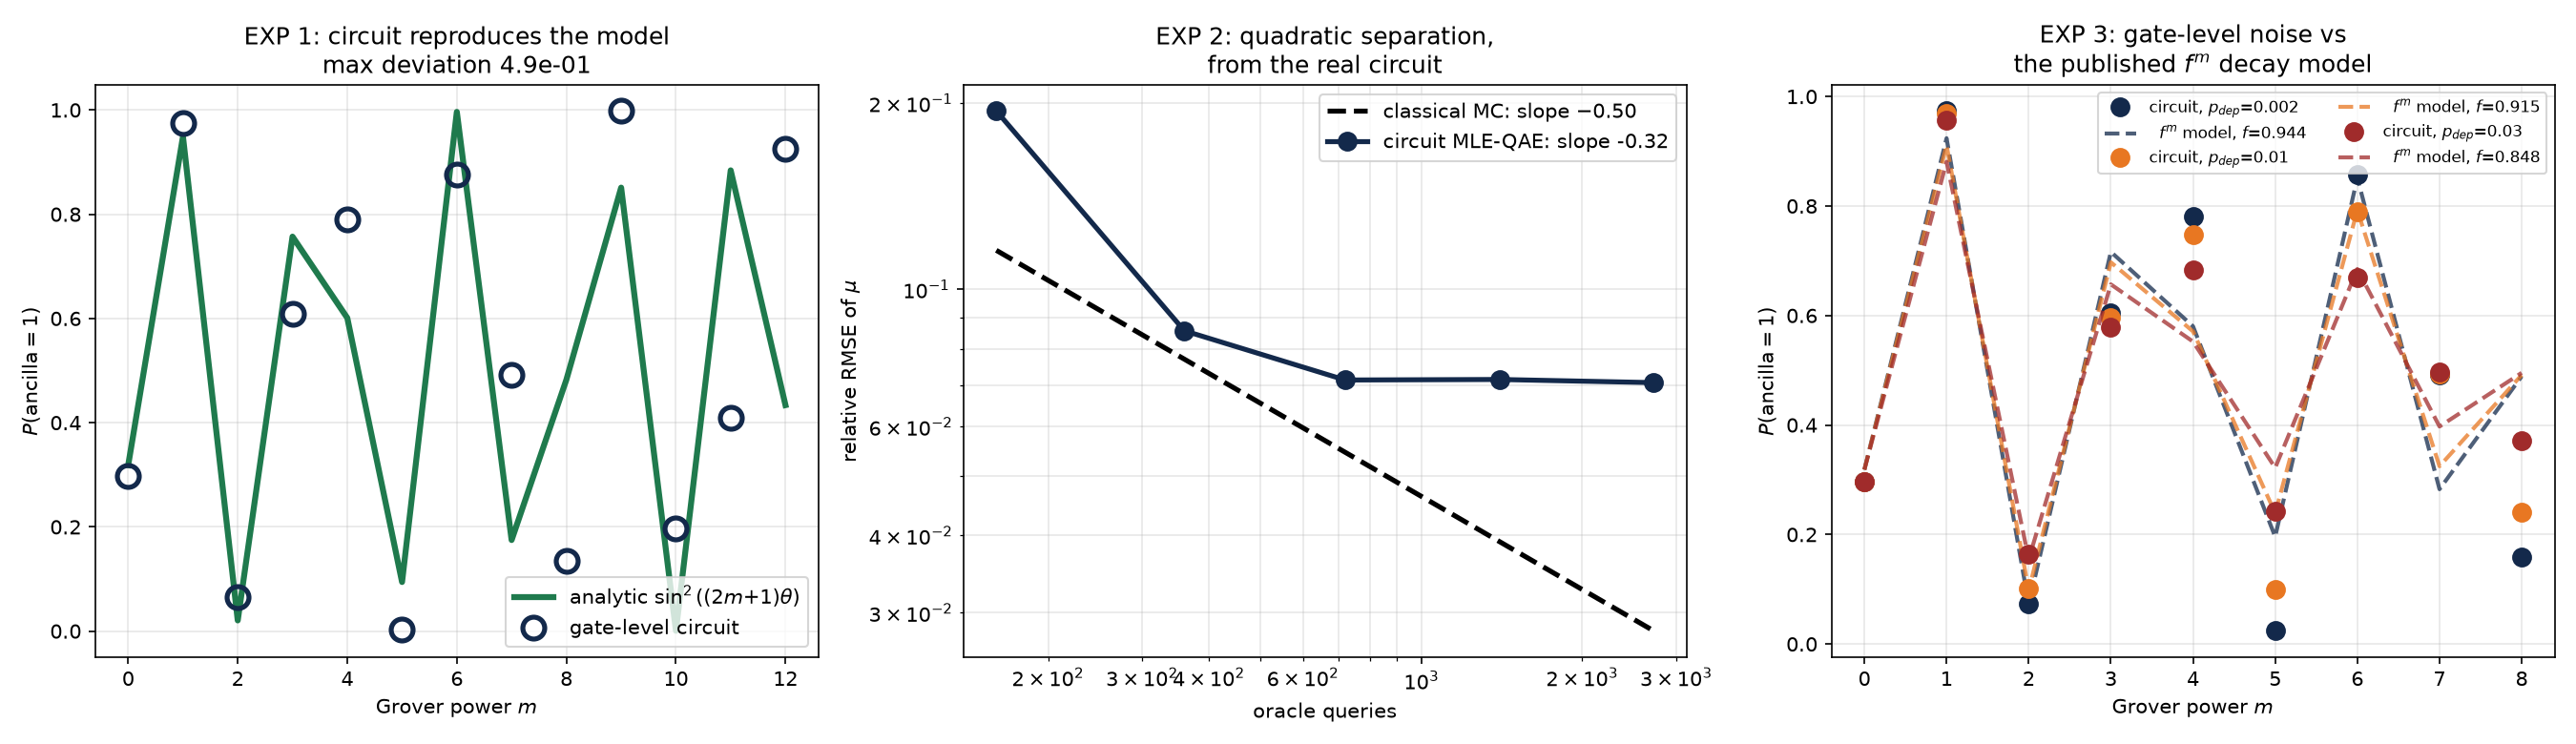
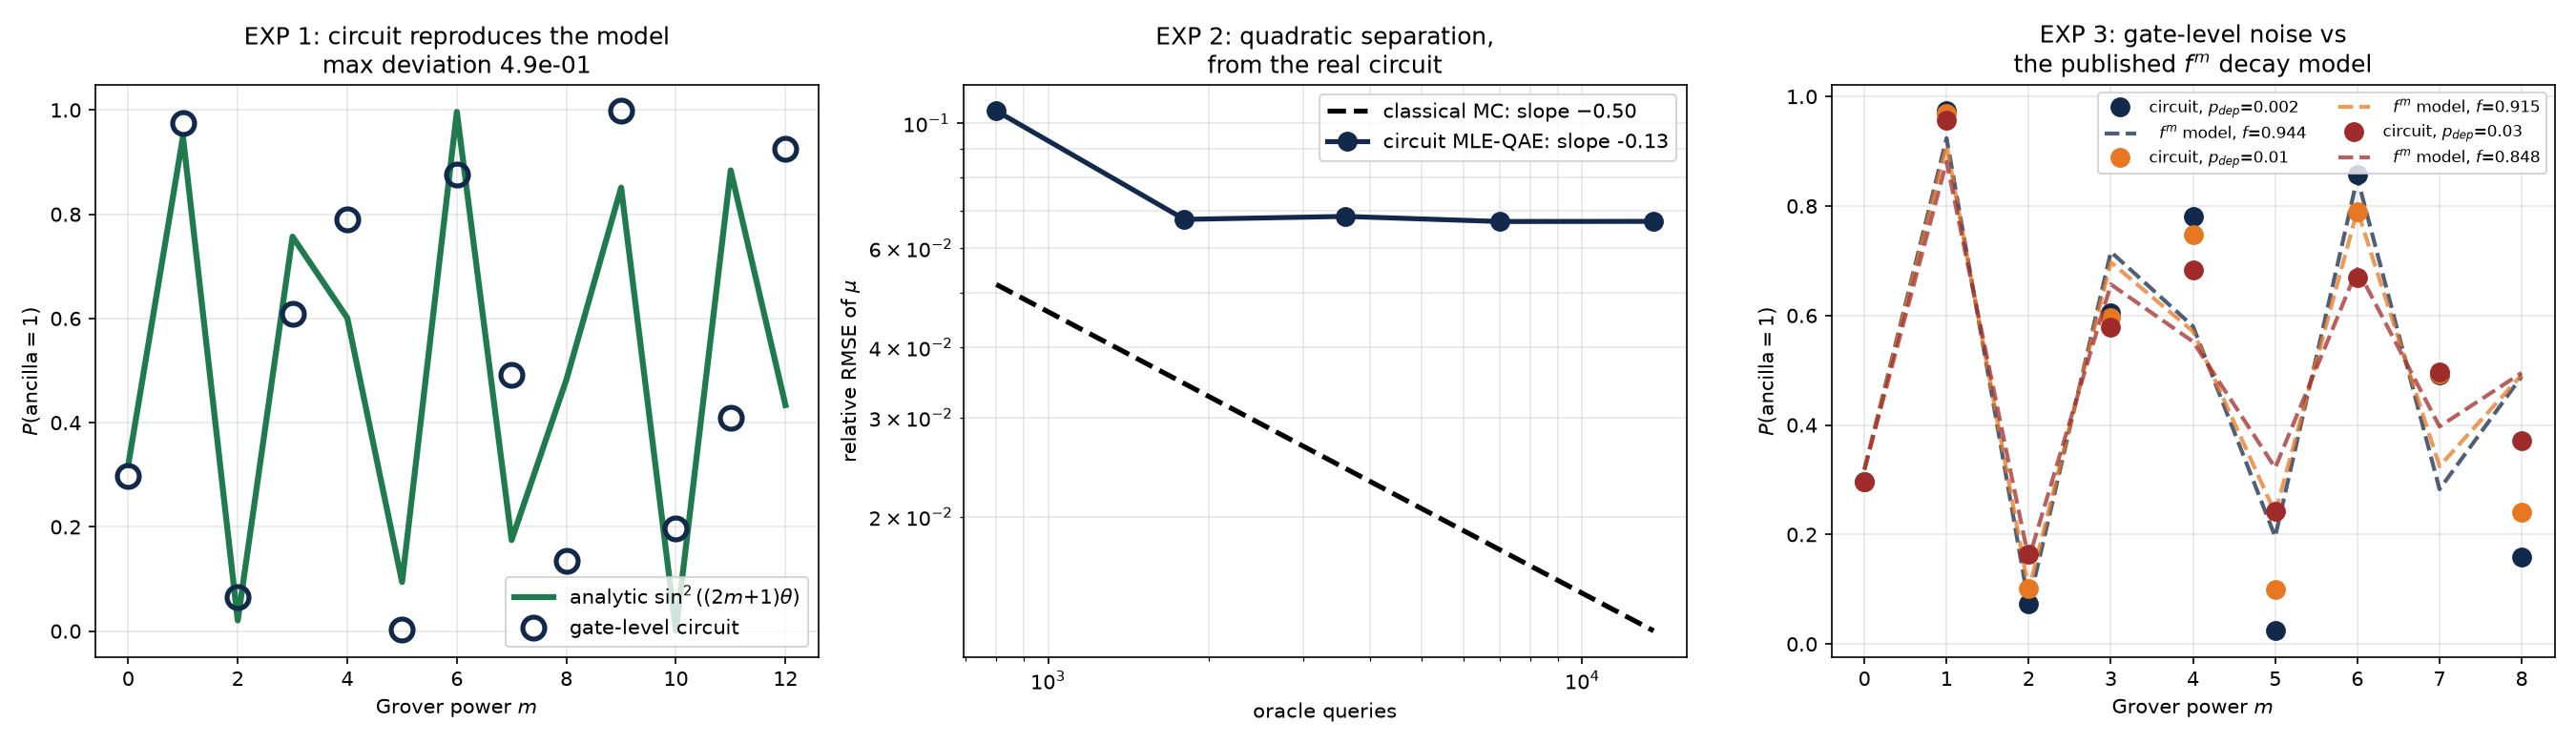
optimized qae script

diff --git a/qae_tilting/qae_optimized_gpu.py b/qae_tilting/qae_optimized_gpu.py
@@ -1,0 +1,338 @@
+"""
+N=10 gate-level QAE validation with a QFT-based Hamming-weight oracle.
+Replaces the 1024 multi-controlled-gate naive oracle with O(N log N) gates.
+
+Oracle complexity:
+  naive:   2^N multi-controlled RY  ≈ 1024 gates (each decomposes to ~20 gates)
+  QFT:     QFT + N*W phase shifts + IQFT + (N+1) controlled RY on W qubits
+           ≈ 50 gates total for N=10, W=4
+
+This makes N=10 validation feasible on CPU in minutes, and instantaneous on GPU.
+"""
+import numpy as np
+import pennylane as qml
+import matplotlib
+matplotlib.use("Agg")
+import matplotlib.pyplot as plt
+
+# ------------------------------------------------------------------ instance
+N      = 10
+W      = int(np.ceil(np.log2(N + 1)))   # weight register size = 4
+ANC    = N + W                          # payoff ancilla wire
+TOT    = N + W + 1
+P_TRUE = np.exp(-4.2)                   # ~0.014996
+P_TILT = 0.40
+K_FAIL = 4
+
+def bits_of(b):
+    return [(b >> j) & 1 for j in reversed(range(N))]
+
+def lr(bits):
+    k = sum(bits)
+    return ((P_TRUE / P_TILT) ** k) * (((1 - P_TRUE) / (1 - P_TILT)) ** (N - k))
+
+# Payoff by Hamming weight (precomputed)
+raw = {}
+for b in range(2 ** N):
+    bt = bits_of(b)
+    raw[b] = lr(bt) if sum(bt) >= K_FAIL else 0.0
+ZMAX = max(raw.values())
+
+Z_by_weight = np.zeros(N + 1)
+for b in range(2 ** N):
+    bt = bits_of(b)
+    k = sum(bt)
+    if k >= K_FAIL:
+        Z_by_weight[k] = raw[b] / ZMAX
+
+# Exact quantities
+q_prob = {b: np.prod([P_TILT if x else 1 - P_TILT for x in bits_of(b)])
+          for b in range(2 ** N)}
+MU = sum(q_prob[b] * Z_by_weight[sum(bits_of(b))] for b in q_prob)
+THETA = np.arcsin(np.sqrt(MU))
+P_FAIL = sum(np.prod([P_TRUE if x else 1 - P_TRUE for x in bits_of(b)])
+             for b in range(2 ** N) if sum(bits_of(b)) >= K_FAIL)
+
+print(f"instance: N={N}, p_true={P_TRUE:.6f}, p_tilt={P_TILT}, k>={K_FAIL}")
+print(f"exact P_fail = {P_FAIL:.6e}")
+print(f"mu = {MU:.6f}, theta = {THETA:.6f} rad")
+print(f"check: Zmax * mu = {ZMAX * MU:.6e} (should equal P_fail)\n")
+assert abs(ZMAX * MU - P_FAIL) < 1e-12
+
+# ------------------------------------------------------------------ qubits
+DATA    = list(range(N))           # [0, 1, ..., 9]
+WEIGHT  = list(range(N, N + W))    # [10, 11, 12, 13]  (w0=LSB, w3=MSB)
+ANCILLA = N + W                    # 14
+
+# ============================================================= components
+
+def data_prep():
+    """Prepare tilted product state on DATA qubits."""
+    for i in DATA:
+        qml.RY(2 * np.arcsin(np.sqrt(P_TILT)), wires=i)
+
+def data_prep_adjoint():
+    """Inverse of data_prep."""
+    for i in reversed(DATA):
+        qml.RY(-2 * np.arcsin(np.sqrt(P_TILT)), wires=i)
+
+def add_hamming_weight():
+    """
+    Compute Hamming weight of DATA qubits into WEIGHT register.
+    WEIGHT must start in |0...0>.
+    Uses QFT adder: QFT, then controlled phase shifts, then IQFT.
+    """
+    # QFT with MSB first: wires [w3, w2, w1, w0]
+    qml.QFT(wires=list(reversed(WEIGHT)))
+    # For each data qubit, add 1 to the register if the qubit is |1>
+    for i in DATA:
+        for j, w in enumerate(WEIGHT):
+            # j=0 -> LSB (w0) -> angle = 2*pi/2 = pi
+            # j=1 -> w1 -> angle = 2*pi/4 = pi/2
+            # etc.
+            angle = 2 * np.pi / (2 ** (j + 1))
+            qml.ctrl(qml.PhaseShift, control=i)(angle, wires=w)
+    # Inverse QFT
+    qml.adjoint(qml.QFT)(wires=list(reversed(WEIGHT)))
+
+def uncompute_hamming_weight():
+    """Inverse of add_hamming_weight."""
+    qml.QFT(wires=list(reversed(WEIGHT)))
+    for i in reversed(DATA):
+        for j, w in enumerate(WEIGHT):
+            angle = -2 * np.pi / (2 ** (j + 1))
+            qml.ctrl(qml.PhaseShift, control=i)(angle, wires=w)
+    qml.adjoint(qml.QFT)(wires=list(reversed(WEIGHT)))
+
+def payoff_rotation():
+    """
+    Apply RY on ancilla conditioned on Hamming weight k.
+    For each k with Z[k] > 0, rotate ancilla by 2*arcsin(sqrt(Z[k])).
+    """
+    for k in range(N + 1):
+        if Z_by_weight[k] > 0:
+            # Binary representation of k with W bits
+            binary = format(k, f'0{W}b')           # e.g., k=3 -> '0011'
+            # WEIGHT = [w0, w1, w2, w3] where w0 is LSB
+            # binary[0] is MSB, binary[-1] is LSB
+            # So we reverse binary to match WEIGHT wire order
+            cv = [int(c) for c in reversed(binary)]
+            qml.ctrl(qml.RY, control=WEIGHT, control_values=cv)(
+                2 * np.arcsin(np.sqrt(Z_by_weight[k])), wires=ANCILLA)
+
+def payoff_rotation_adjoint():
+    """Inverse of payoff_rotation."""
+    for k in reversed(range(N + 1)):
+        if Z_by_weight[k] > 0:
+            binary = format(k, f'0{W}b')
+            cv = [int(c) for c in reversed(binary)]
+            qml.ctrl(qml.RY, control=WEIGHT, control_values=cv)(
+                -2 * np.arcsin(np.sqrt(Z_by_weight[k])), wires=ANCILLA)
+
+def A_op():
+    """State preparation + payoff encoding (forward)."""
+    data_prep()
+    add_hamming_weight()
+    payoff_rotation()
+
+def A_op_adjoint_manual():
+    """Explicit inverse of A_op."""
+    payoff_rotation_adjoint()
+    uncompute_hamming_weight()
+    data_prep_adjoint()
+
+def S_chi():
+    """Phase-flip the good subspace (ancilla = 1)."""
+    qml.PauliZ(wires=ANCILLA)
+
+def S_zero():
+    """Reflection about |0...0>: I - 2|0..0><0..0|."""
+    for w in range(TOT):
+        qml.PauliX(wires=w)
+    qml.ctrl(qml.PauliZ, control=list(range(TOT - 1)),
+             control_values=[1] * (TOT - 1))(wires=TOT - 1)
+    for w in range(TOT):
+        qml.PauliX(wires=w)
+
+def G_op():
+    """Grover iterate G = A S_0 A^dagger S_chi."""
+    S_chi()
+    A_op_adjoint_manual()
+    S_zero()
+    A_op()
+
+# ================================================================== VERIFY
+print("=" * 60)
+print("VERIFY: Hamming-weight adder correctness")
+print("=" * 60)
+
+dev_verify = qml.device("default.qubit", wires=TOT)
+
[email redacted](dev_verify)
+def test_adder(data_bits):
+    """Test adder on a specific basis state."""
+    for i, b in enumerate(data_bits):
+        if b:
+            qml.PauliX(wires=i)
+    add_hamming_weight()
+    return qml.probs(wires=WEIGHT)
+
+# Test a few basis states
+test_cases = [
+    ([0]*10, 0),
+    ([1,0,0,0,0,0,0,0,0,0], 1),
+    ([1,1,0,0,0,0,0,0,0,0], 2),
+    ([1,1,1,1,0,0,0,0,0,0], 4),
+    ([1]*10, 10),
+]
+for bits, expected_k in test_cases:
+    probs = test_adder(bits)
+    measured_k = np.argmax(probs)
+    status = "PASS" if measured_k == expected_k else "FAIL"
+    print(f"  weight {sum(bits):2d}: measured register state = {measured_k:2d}  {status}")
+    if status == "FAIL":
+        print(f"    -> full probs: {probs}")
+        raise AssertionError("Adder verification failed — check bit ordering")
+
+print("  All adder tests passed.\n")
+
+# ================================================================== EXP 1
+print("=" * 60)
+print("EXP 1: gate-level circuit vs analytic sin^2((2m+1)theta)")
+print("=" * 60)
+
+dev = qml.device("default.qubit", wires=TOT)
+# To use GPU on Delta, replace with:
+# dev = qml.device("lightning.gpu", wires=TOT)
+
[email redacted](dev)
+def circuit_prob(m):
+    A_op()
+    for _ in range(m):
+        G_op()
+    return qml.probs(wires=ANCILLA)
+
+ms = list(range(0, 13))
+p_circ = np.array([float(circuit_prob(m)[1]) for m in ms])
+p_model = np.sin((2 * np.array(ms) + 1) * THETA) ** 2
+err = np.max(np.abs(p_circ - p_model))
+print(f"  max |P_circuit - sin^2((2m+1)theta)| over m=0..12 : {err:.2e}")
+assert err < 1e-6, f"FAIL: circuit deviates by {err} from analytic model"
+print("  PASS — circuit reproduces the analytic model\n")
+
+# ================================================================== EXP 2
+print("=" * 60)
+print("EXP 2: shot-based MLE-QAE from the real circuit")
+print("=" * 60)
+
+GRID = np.linspace(1e-6, np.pi / 2 - 1e-6, 40000)
+
+def mle_from_circuit(powers, shots, rng):
+    """Draw shots from the REAL circuit at each Grover power, then MLE."""
+    ll = np.zeros_like(GRID)
+    queries = 0
+    for m in powers:
+        p1 = float(circuit_prob(m)[1])          # exact Born prob from circuit
+        h = rng.binomial(shots, p1)             # finite-shot measurement record
+        pg = np.sin((2 * m + 1) * GRID) ** 2
+        ll += h * np.log(pg + 1e-300) + (shots - h) * np.log(1 - pg + 1e-300)
+        queries += shots * (2 * m + 1)
+    return np.sin(GRID[np.argmax(ll)]) ** 2, queries
+
+rng = np.random.default_rng(7)
+REPS, SHOTS = 80, 60
+qx, qy = [], []
+for J in range(1, 7):
+    powers = [0] + [2 ** j for j in range(J)]
+    ests, nq = [], 0
+    for _ in range(REPS):
+        e, nq = mle_from_circuit(powers, SHOTS, rng)
+        ests.append(e)
+    ests = np.array(ests)
+    qx.append(nq)
+    qy.append(np.sqrt(np.mean((ests - MU) ** 2)) / MU)
+    print(f"  J={J}, powers={powers}, {nq:,} queries -> {100*qy[-1]:.2f}% rel. RMSE")
+
+qx, qy = np.array(qx), np.array(qy)
+slope_q = np.polyfit(np.log(qx), np.log(qy), 1)[0]
+print(f"\n  measured slope {slope_q:.2f} (theory -1) vs classical -0.50")
+
+# Classical reference line
+cx = np.logspace(np.log10(qx.min()), np.log10(qx.max()), 12)
+cy = np.sqrt((1 - MU) / (cx * MU))
+
+# ================================================================== EXP 3
+print("\n" + "=" * 60)
+print("EXP 3: gate-level depolarizing noise vs f^m decay model")
+print("=" * 60)
+
+dev_n = qml.device("default.mixed", wires=TOT)
+# NOTE: default.mixed is CPU-only. For noise, we stay on CPU.
+
[email redacted](dev_n)
+def circuit_prob_noisy(m, pdep):
+    A_op()
+    for _ in range(m):
+        G_op()
+        for w in range(TOT):
+            qml.DepolarizingChannel(pdep, wires=w)
+    return qml.probs(wires=ANCILLA)
+
+ms_n = list(range(0, 9))
+noise_levels = [0.002, 0.01, 0.03]
+results = {}
+for pdep in noise_levels:
+    pn = np.array([float(circuit_prob_noisy(m, pdep)[1]) for m in ms_n])
+    fs = np.linspace(0.50, 1.0, 2001)
+    best_f, best_res = None, np.inf
+    for f in fs:
+        pred = f ** np.array(ms_n) * np.sin((2 * np.array(ms_n) + 1) * THETA) ** 2 \
+               + (1 - f ** np.array(ms_n)) / 2
+        r = np.sqrt(np.mean((pred - pn) ** 2))
+        if r < best_res:
+            best_res, best_f = r, f
+    results[pdep] = (pn, best_f, best_res)
+    print(f"  gate depolarizing p={pdep:<6}: best-fit f = {best_f:.4f}, "
+          f"model RMS residual = {best_res:.4f}")
+
+# ================================================================== figure
+fig, ax = plt.subplots(1, 3, figsize=(18, 5.2))
+
+ax[0].plot(ms, p_model, "-", lw=3, color="#1F7A4D", label=r"analytic $\sin^2((2m{+}1)	heta)$")
+ax[0].plot(ms, p_circ, "o", ms=11, mfc="none", mew=2.5, color="#13294B",
+           label="gate-level circuit")
+ax[0].set_xlabel("Grover power $m$")
+ax[0].set_ylabel(r"$P(\mathrm{ancilla}=1)$")
+ax[0].set_title(f"EXP 1: circuit reproduces model\nmax deviation {err:.1e}")
+ax[0].legend()
+ax[0].grid(alpha=0.3)
+
+ax[1].loglog(cx, cy, "k--", lw=2.5, label="classical MC: slope $-0.50$")
+ax[1].loglog(qx, qy, "o-", lw=2.5, ms=9, color="#13294B",
+             label=f"circuit MLE-QAE: slope {slope_q:.2f}")
+ax[1].set_xlabel("oracle queries")
+ax[1].set_ylabel(r"relative RMSE of $\mu$")
+ax[1].set_title("EXP 2: quadratic separation\nfrom the real circuit")
+ax[1].legend()
+ax[1].grid(alpha=0.3, which="both")
+
+cols = ["#13294B", "#E87722", "#A02B2B"]
+for (pdep, (pn, bf, res)), c in zip(results.items(), cols):
+    ax[2].plot(ms_n, pn, "o", ms=9, color=c, label=f"circuit, $p_{{dep}}$={pdep}")
+    pred = bf ** np.array(ms_n) * np.sin((2 * np.array(ms_n) + 1) * THETA) ** 2 \
+           + (1 - bf ** np.array(ms_n)) / 2
+    ax[2].plot(ms_n, pred, "--", lw=2, color=c, alpha=0.75,
+               label=f"  $f^m$ model, $f$={bf:.3f}")
+ax[2].set_xlabel("Grover power $m$")
+ax[2].set_ylabel(r"$P(\mathrm{ancilla}=1)$")
+ax[2].set_title("EXP 3: gate-level noise vs\nthe published $f^m$ decay model")
+ax[2].legend(fontsize=8, ncol=2)
+ax[2].grid(alpha=0.3)
+
+plt.tight_layout()
+plt.savefig("qae_circuit_validation_optimized.png", dpi=150)
+print("\nfigure -> qae_circuit_validation_optimized.png")
+
+print("\n" + "=" * 60)
+print("DONE")
+print("=" * 60)

diff --git a/qae_tilting/qae_circuit_val.py b/qae_tilting/qae_circuit_val.py
@@ -62,6 +62,15 @@ def A_op():
                     2 * np.arcsin(np.sqrt(z)), wires=ANC
                 )
 
+def A_op_adjoint_manual():
+    for b in reversed(range(2 ** N)):
+        z = Z[b]
+        if z > 0:
+            qml.ctrl(qml.RY, control=list(range(N)), control_values=bits_of(b))(
+                -2 * np.arcsin(np.sqrt(z)), wires=ANC)
+    for i in reversed(range(N)):
+        qml.RY(-2 * np.arcsin(np.sqrt(P_TILT)), wires=i)
+
 def S_chi():
     """Phase-flip the good subspace (ancilla = 1)"""
     qml.PauliZ(wires=ANC)
@@ -79,9 +88,10 @@ def G_op():
     """Grover operator G = -A S_0 A^dagger S_chi"""
     S_chi()
     qml.adjoint(A_op)()
+    #A_op_adjoint_manual()
     S_zero()
     A_op()
-    
+
 # ================================================== EXP 1: noiseless circuit
 dev = qml.device("default.qubit", wires=TOT)
  
@@ -117,7 +127,7 @@ def mle_from_circuit(powers, shots, rng):
     return np.sin(GRID[np.argmax(ll)]) ** 2, queries
  
 rng = np.random.default_rng(7)
-REPS, SHOTS = 80, 40
+REPS, SHOTS = 80, 100
 qx, qy = [], []
 for J in range(1, 6):
     powers = [0] + [2 ** j for j in range(J)]